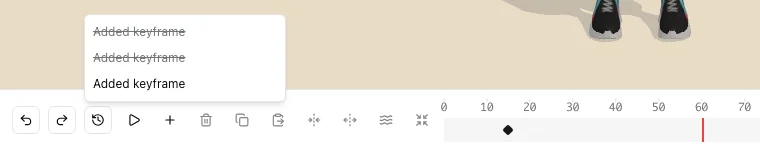
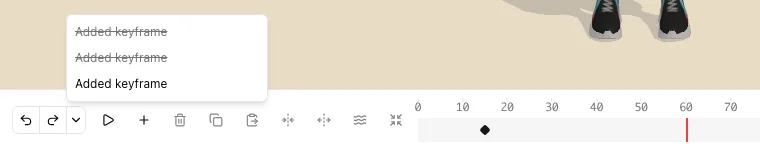
refactor: fold undo, redo and the log into one split control
Three separate buttons read as three unrelated tools. They are now one bordered
group sharing its edges, the two arrows and a narrow caret that opens the log,
which is what a history control looks like everywhere else.

diff --git a/src/components/EditorHistoryControls.vue b/src/components/EditorHistoryControls.vue
@@ -6,7 +6,7 @@ import {
   DropdownMenuRoot,
   DropdownMenuTrigger
 } from 'radix-vue'
-import { Undo2, Redo2, History } from 'lucide-vue-next'
+import { Undo2, Redo2, ChevronDown } from 'lucide-vue-next'
 import IconButton from '@/components/IconButton.vue'
 import type { HistoryLogEntry } from '@/types/editorHistory'
 
@@ -22,59 +22,90 @@ defineEmits<{ undo: []; redo: []; goTo: [index: number] }>()
 </script>
 
 <template>
-  <IconButton
-    :size="size"
-    variant="outline"
-    title="Undo"
-    aria-label="Undo"
-    :disabled="!canUndo"
-    @click="$emit('undo')"
-  >
-    <Undo2 />
-  </IconButton>
-  <IconButton
-    :size="size"
-    variant="outline"
-    title="Redo"
-    aria-label="Redo"
-    :disabled="!canRedo"
-    @click="$emit('redo')"
-  >
-    <Redo2 />
-  </IconButton>
-  <DropdownMenuRoot>
-    <DropdownMenuTrigger as-child>
-      <IconButton
-        :size="size"
-        variant="outline"
-        title="Action Log, click an action to step straight to it"
-        aria-label="Action log"
-      >
-        <History />
-      </IconButton>
-    </DropdownMenuTrigger>
-    <DropdownMenuPortal>
-      <DropdownMenuContent class="history-log" :side-offset="4" align="start">
-        <p v-if="log.length === 0" class="history-log__empty">Nothing done yet</p>
-        <ol v-else class="history-log__list">
-          <DropdownMenuItem
-            v-for="entry in log"
-            :key="entry.index"
-            as="li"
-            class="history-log__entry"
-            :class="{ 'history-log__entry--undone': entry.undone }"
-            @select="$emit('goTo', entry.index)"
-          >
-            {{ entry.label }}
-          </DropdownMenuItem>
-        </ol>
-      </DropdownMenuContent>
-    </DropdownMenuPortal>
-  </DropdownMenuRoot>
+  <div class="history-controls">
+    <IconButton
+      class="history-controls__button"
+      :size="size"
+      variant="outline"
+      title="Undo"
+      aria-label="Undo"
+      :disabled="!canUndo"
+      @click="$emit('undo')"
+    >
+      <Undo2 />
+    </IconButton>
+    <IconButton
+      class="history-controls__button"
+      :size="size"
+      variant="outline"
+      title="Redo"
+      aria-label="Redo"
+      :disabled="!canRedo"
+      @click="$emit('redo')"
+    >
+      <Redo2 />
+    </IconButton>
+    <DropdownMenuRoot>
+      <DropdownMenuTrigger as-child>
+        <IconButton
+          class="history-controls__button history-controls__caret"
+          :size="size"
+          variant="outline"
+          title="Action log, click an action to step straight to it"
+          aria-label="Action log"
+        >
+          <ChevronDown />
+        </IconButton>
+      </DropdownMenuTrigger>
+      <DropdownMenuPortal>
+        <DropdownMenuContent class="history-log" :side-offset="4" align="start">
+          <p v-if="log.length === 0" class="history-log__empty">Nothing done yet</p>
+          <ol v-else class="history-log__list">
+            <DropdownMenuItem
+              v-for="entry in log"
+              :key="entry.index"
+              as="li"
+              class="history-log__entry"
+              :class="{ 'history-log__entry--undone': entry.undone }"
+              @select="$emit('goTo', entry.index)"
+            >
+              {{ entry.label }}
+            </DropdownMenuItem>
+          </ol>
+        </DropdownMenuContent>
+      </DropdownMenuPortal>
+    </DropdownMenuRoot>
+  </div>
 </template>
 
 <!-- The panel is portalled out of this component, so a scoped style never reaches it. -->
 <style>
+.history-controls {
+  display: inline-flex;
+}
+
+/* One control rather than three: shared edges, so only the outer corners are rounded. */
+.history-controls .history-controls__button.icon-btn:not(:first-child) {
+  margin-left: -1px;
+  border-top-left-radius: 0;
+  border-bottom-left-radius: 0;
+}
+
+.history-controls .history-controls__button.icon-btn:not(:last-child) {
+  border-top-right-radius: 0;
+  border-bottom-right-radius: 0;
+}
+
+.history-controls .history-controls__button.icon-btn:hover,
+.history-controls .history-controls__button.icon-btn:focus-visible {
+  position: relative;
+}
+
+.history-controls .history-controls__caret.icon-btn {
+  width: auto;
+  padding: 0 var(--spacing-0-5);
+}
+
 .history-log {
   max-height: 16rem;
   min-width: 12rem;

diff --git a/documentation/docs/guides/rig-animator.md b/documentation/docs/guides/rig-animator.md
@@ -232,7 +232,8 @@ joint when nothing else is selected, poses it normally instead.
 
 ## Undoing a bad edit
 
-Undo, redo and the action log sit at the left of the timeline's first row. Undo steps back through
+Undo, redo and the action log are one control at the left of the timeline's first row: the two
+arrows, and a caret beside them that opens the log. Undo steps back through
 every change to the keyframe list, whatever made it: a keyframe added or deleted, a block
 dragged, pasted or cut, a polish pass, a whole recorded take. The log names each one, newest
 first, and strikes through the ones undo has taken away, so a stack of similar steps is still
